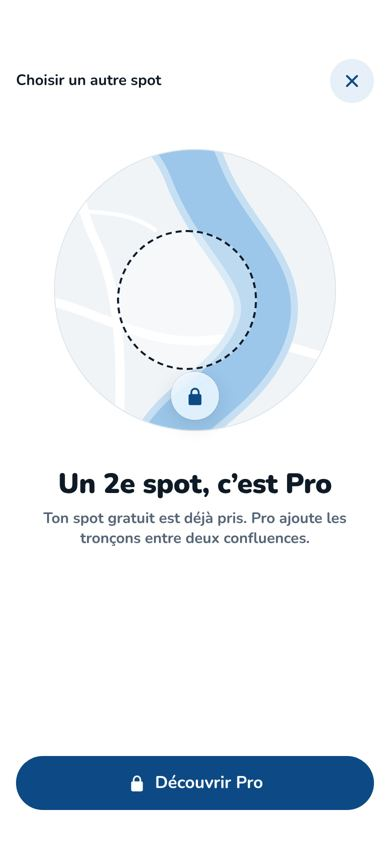
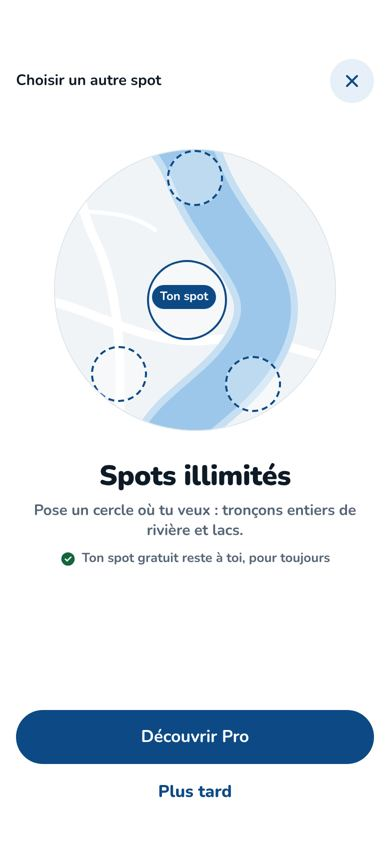
Design : P07 fiche du spot refaite, P10 C au ton MWM
Claude-Session: https://claude.ai/code/session_01SHD9N8ay5HXbeEQZKxhWVP

diff --git a/docs/design/maquettes/P07-fiche-A.dc.html b/docs/design/maquettes/P07-fiche-A.dc.html
@@ -12,26 +12,52 @@
 <link rel="stylesheet" href="https://fonts.googleapis.com/css2?family=Nunito:wght@600;700;800;900&amp;display=swap">
 <style>
 body{margin:0}
-.pt-p{width:10px;height:10px;border-radius:5px;display:inline-block;flex:none}
-.pt-p.o{background:var(--ouvert)}
-.pt-p.f{background:var(--alerte)}
-.pt-f{display:flex;flex-direction:column;align-items:center;gap:6px;min-width:0;flex:1;background:none}
-.pt-f .tuile-poisson{width:100%}
-.pt-f b{font-size:22px;line-height:1;display:flex;align-items:center;gap:6px;color:var(--encre)}
-.pt-f b small{font-size:13px;font-weight:800;color:var(--encre-douce)}
-.pt-plus{flex:1;min-width:0;display:flex;flex-direction:column;align-items:center;gap:6px;background:none}
-.pt-plus span{width:100%;border-radius:12px;box-shadow:inset 0 0 0 1.5px var(--filet);display:grid;place-items:center;color:var(--encre-douce);font-size:15px}
+.ecran .p07-t{background:var(--tuile);padding:8px 10px 9px}
+.ecran .p07-big{padding:8px 12px 8px}
+.p07-t{position:relative;display:flex;flex-direction:column;align-items:stretch;text-align:left;min-width:0;background:var(--tuile);border-radius:16px;padding:8px 9px 9px;gap:2px}
+.p07-t .rar{font-size:12px;gap:4px}.p07-t .rar svg{width:12px;height:12px}
+.p07-im{display:grid;place-items:center;height:36px}
+.p07-im img{width:100%;height:36px}
+.p07-t b{font-size:14px;font-weight:900;color:var(--encre);font-variant-numeric:tabular-nums;line-height:1.15}
+.p07-bas{display:flex;align-items:center;justify-content:space-between;gap:6px}
+.p07-bas i{font-style:normal;font-size:17px;font-weight:900;color:var(--ouvert);line-height:1.15}
+.p07-bas.f i{color:var(--alerte)}
+.p07-bas i.n{font-size:13px;color:var(--encre-douce);font-weight:800}
+.p07-pt{width:10px;height:10px;border-radius:5px;flex:none}
+.p07-pt.o{background:var(--ouvert)}.p07-pt.f{background:var(--alerte)}
+.p07-chip{display:inline-flex;align-items:center;gap:6px;height:30px;padding:0 12px 0 8px;border-radius:15px;background:var(--ouvert-doux);color:var(--ouvert);font-size:14px;font-weight:800;white-space:nowrap}
+.p07-chip svg{width:18px;height:18px}
+.p07-cond{display:grid;grid-template-columns:1fr 1fr 1fr}
+.p07-c{display:flex;align-items:center;gap:8px;min-width:0}
+.p07-c svg{color:var(--marine)}
+.p07-c b{display:block;font-size:20px;font-weight:900;line-height:1.05;font-variant-numeric:tabular-nums;color:var(--encre)}
+.p07-c span{display:block;font-size:12px;font-weight:700;color:var(--encre-douce);line-height:1.2}
+.p07-conseil{display:flex;align-items:center;gap:14px;font-size:15px;font-weight:800;color:var(--encre);white-space:nowrap}
+.p07-conseil .e{display:flex;align-items:center;gap:5px}
+.p07-conseil svg{color:var(--marine)}
+.p07-conseil img{width:44px;height:24px}
+.p07-lien{display:flex;align-items:center;gap:8px;font-size:15px;font-weight:800;color:var(--marine);width:100%;height:36px}
+.p07-lien svg{width:20px;height:20px}
+
+.p07-plus{display:inline-flex;align-items:center;height:30px;padding:0 12px;border-radius:15px;background:var(--tuile);color:var(--marine);font-size:14px;font-weight:900}
+.p07-chip.verre{background:var(--verre);color:var(--ouvert)}
 
 </style>
 </helmet>
 <div class="ecran">
-<img class="fond-carte" style="top:-240px" src="/_blob/358f1ded92a9e441995d46a2c2f81624" alt="Carte de la Marne"><div class="spot-cercle" style="left:176px;top:132px;width:172px;height:172px"></div>
-<div style="position:absolute;left:16px;right:16px;top:59px;display:flex;justify-content:space-between"><span></span><button class="rond verre" aria-label="Fermer" style="color:var(--encre)"><svg viewBox="0 0 24 24" aria-hidden="true" style="width:20px;height:20px;flex:none;"><path fill="none" stroke="currentColor" stroke-width="2.4" stroke-linecap="round" d="M6 6l12 12M18 6 6 18"/></svg></button></div>
-<div class="feuille" style="top:470px;bottom:8px;display:flex;flex-direction:column"><div class="poignee"></div>
-<div style="display:flex;justify-content:space-between;align-items:baseline"><h1 class="t-titre">Ton spot</h1><span class="t-detail">La Marne · 2,4 km</span></div>
-<div style="margin-top:20px"><div style="display:flex;gap:8px;align-items:flex-start"><button class="pt-f" aria-label="Brochet, taille minimale 60 cm, ouvert"><div class="tuile-poisson" style="height:68px"><img class="poisson" src="/_blob/325cfac7b539aef705c1b3f944fa8bcf" alt="" style="width:88%;height:48px"></div><b>60<span class="pt-p o"></span></b></button><button class="pt-f" aria-label="Sandre, taille minimale 50 cm, ouvert"><div class="tuile-poisson" style="height:68px"><img class="poisson" src="/_blob/64752134d1301c8ae5245b9230566c2d" alt="" style="width:88%;height:48px"></div><b>50<span class="pt-p o"></span></b></button><button class="pt-f" aria-label="Black-bass, taille minimale 40 cm, ouvert"><div class="tuile-poisson" style="height:68px"><img class="poisson" src="/_blob/822cd2aa2361109755135f4ca4af8f47" alt="" style="width:88%;height:48px"></div><b>40<span class="pt-p o"></span></b></button><button class="pt-f" aria-label="Truite fario, taille minimale 23 cm, fermé"><div class="tuile-poisson" style="height:68px"><img class="poisson" src="/_blob/9c9a3e6836050e27289055b62c3d60d5" alt="" style="width:88%;height:48px"></div><b>23<span class="pt-p f"></span></b></button><button class="pt-plus" aria-label="7 autres espèces"><span style="height:68px">+7</span></button></div></div>
-<div class="t-detail" style="margin-top:16px;color:var(--encre-douce)">3 carnassiers par jour</div>
-<div style="margin-top:auto"><button class="btn pri"><svg viewBox="0 0 24 24" aria-hidden="true" style="width:20px;height:20px;flex:none;"><path fill="currentColor" d="M7 4.5v15a1 1 0 0 0 1.5.86l12.5-7.5a1 1 0 0 0 0-1.72L8.5 3.64A1 1 0 0 0 7 4.5Z"/></svg>Commencer une session</button></div></div>
+<img class="fond-carte" style="top:-338px" src="/_blob/358f1ded92a9e441995d46a2c2f81624" alt="Carte de la Marne"><div class="spot-cercle" style="left:176px;top:20px;width:172px;height:172px"></div><span class="station" style="left:232px;top:98px"></span>
+<div style="position:absolute;left:16px;right:16px;top:59px;display:flex;justify-content:space-between;align-items:center"><span class="p07-chip verre"><svg viewBox="0 0 24 24" aria-hidden="true" style="width:18px;height:18px;flex:none;"><path fill="currentColor" d="M12 2a10 10 0 1 0 0 20 10 10 0 0 0 0-20Zm-1.3 14.2-4-4 1.4-1.4 2.6 2.6 5.6-5.6 1.4 1.4Z"/></svg>Ouvert aujourd'hui</span><button class="rond verre" aria-label="Fermer" style="color:var(--encre)"><svg viewBox="0 0 24 24" aria-hidden="true" style="width:20px;height:20px;flex:none;"><path fill="none" stroke="currentColor" stroke-width="2.4" stroke-linecap="round" d="M6 6l12 12M18 6 6 18"/></svg></button></div>
+<div class="feuille" style="top:176px;bottom:8px;display:flex;flex-direction:column;padding-bottom:16px"><div class="poignee"></div>
+<div class="t-legende" style="white-space:nowrap">Ton spot · La Marne à Saint-Maur · 2,4 km</div>
+<h1 style="font-size:22px;font-weight:900;line-height:1.1;margin-top:3px">Ce que tu peux pêcher ici aujourd'hui</h1>
+<div style="display:flex;justify-content:space-between;align-items:center;margin-top:10px"><span class="t-legende">29 pêches OFB · dernier relevé 2024</span><span class="p07-plus" style="height:26px;font-size:13px">+5 espèces</span></div>
+<div style="display:grid;grid-template-columns:repeat(3,1fr);gap:8px;margin-top:8px"><button class="p07-t " aria-label="Brochet, peu commun, 10 pêches sur 29, taille minimale 60 cm, ouvert"><span class="rar pc"><svg viewBox="0 0 16 16" fill="currentColor" aria-hidden="true"><path d="M8 1.5 13.6 4.75v6.5L8 14.5 2.4 11.25v-6.5Z"/></svg><span>Peu commun</span></span><span class="p07-im"><img class="poisson" src="/_blob/325cfac7b539aef705c1b3f944fa8bcf" alt=""></span><b>10 sur 29</b><span class="p07-bas"><i class="">60 cm</i><span class="p07-pt o"></span></span></button><button class="p07-t " aria-label="Sandre, rare, 3 pêches sur 29, taille minimale 50 cm, ouvert"><span class="rar r"><svg viewBox="0 0 16 16" fill="currentColor" aria-hidden="true"><path d="M8 1 15 8 8 15 1 8Z"/></svg><span>Rare</span></span><span class="p07-im"><img class="poisson" src="/_blob/64752134d1301c8ae5245b9230566c2d" alt=""></span><b>3 sur 29</b><span class="p07-bas"><i class="">50 cm</i><span class="p07-pt o"></span></span></button><button class="p07-t " aria-label="Perche, commun, 24 pêches sur 29, ouvert"><span class="rar c"><svg viewBox="0 0 16 16" fill="currentColor" aria-hidden="true"><circle cx="8" cy="8" r="6"/></svg><span>Commun</span></span><span class="p07-im"><img class="poisson" src="/_blob/0af5e5e6f274e011d4317ff12600a103" alt=""></span><b>24 sur 29</b><span class="p07-bas"><i class="n">Sans taille</i><span class="p07-pt o"></span></span></button><button class="p07-t " aria-label="Gardon, commun, 16 pêches sur 29, ouvert"><span class="rar c"><svg viewBox="0 0 16 16" fill="currentColor" aria-hidden="true"><circle cx="8" cy="8" r="6"/></svg><span>Commun</span></span><span class="p07-im"><img class="poisson" src="/_blob/4799d66fb5fc82ab53e0051d38867b2d" alt=""></span><b>16 sur 29</b><span class="p07-bas"><i class="n">Sans taille</i><span class="p07-pt o"></span></span></button><button class="p07-t " aria-label="Black-bass, rare, 2 pêches sur 29, taille minimale 40 cm, ouvert"><span class="rar r"><svg viewBox="0 0 16 16" fill="currentColor" aria-hidden="true"><path d="M8 1 15 8 8 15 1 8Z"/></svg><span>Rare</span></span><span class="p07-im"><img class="poisson" src="/_blob/822cd2aa2361109755135f4ca4af8f47" alt=""></span><b>2 sur 29</b><span class="p07-bas"><i class="">40 cm</i><span class="p07-pt o"></span></span></button><button class="p07-t " aria-label="Truite fario, légendaire, 0 pêches sur 29, fermé"><span class="rar l"><svg viewBox="0 0 16 16" fill="currentColor" aria-hidden="true"><path d="m8 1 2.1 4.4 4.9.6-3.6 3.4.9 4.8L8 11.9l-4.3 2.3.9-4.8L1 6l4.9-.6Z"/></svg><span>Légendaire</span></span><span class="p07-im"><img class="poisson" src="/_blob/9c9a3e6836050e27289055b62c3d60d5" alt=""></span><b>0 sur 29</b><span class="p07-bas f"><i>Fermé</i><span class="p07-pt f"></span></span></button></div>
+<div class="p07-cond" style="margin-top:14px"><div class="p07-c"><svg viewBox="0 0 24 24" aria-hidden="true" style="width:22px;height:22px;flex:none;"><path fill="none" stroke="currentColor" stroke-width="2" stroke-linecap="round" stroke-linejoin="round" d="M12 3s6 6.5 6 11a6 6 0 0 1-12 0c0-4.5 6-11 6-11Z"/></svg><div><b>14 °C</b><span>Eau</span></div></div><div class="p07-c"><svg viewBox="0 0 24 24" aria-hidden="true" style="width:22px;height:22px;flex:none;"><path fill="none" stroke="currentColor" stroke-width="2" stroke-linecap="round" d="M2 9c2.5-2 5-2 7.5 0s5 2 7.5 0 3.5-1.5 5 0M2 15c2.5-2 5-2 7.5 0s5 2 7.5 0 3.5-1.5 5 0"/></svg><div><b>1,42 m</b><span>Marne · stable</span></div></div><div class="p07-c"><svg viewBox="0 0 24 24" aria-hidden="true" style="width:22px;height:22px;flex:none;"><path fill="none" stroke="currentColor" stroke-width="2" stroke-linejoin="round" d="M7 18h10.5a4 4 0 0 0 .4-8A6 6 0 0 0 6.3 11 3.5 3.5 0 0 0 7 18Z"/></svg><div><b>16°</b><span>Nuageux</span><span style="font-size:11px">Apple Météo</span></div></div></div>
+<div style="height:.5px;background:var(--filet);margin-top:12px"></div>
+<div style="margin-top:10px"><div class="t-legende" style="margin-bottom:5px">À essayer aujourd&#39;hui</div><div class="p07-conseil"><span class="e"><img class="poisson" src="/_blob/325cfac7b539aef705c1b3f944fa8bcf" alt="Brochet"></span><span class="e"><svg viewBox="0 0 24 24" aria-hidden="true" style="width:20px;height:20px;flex:none;"><g fill="none" stroke="currentColor" stroke-width="2" stroke-linecap="round" stroke-linejoin="round"><path d="M3 12c3-5 9-5 13 0-4 5-10 5-13 0Z"/><path d="M16 12l5-3.5v7Z"/><circle cx="7.5" cy="11" r=".6" fill="currentColor"/></g></svg>Leurre souple</span><span class="e"><svg viewBox="0 0 24 24" aria-hidden="true" style="width:18px;height:18px;flex:none;"><g fill="none" stroke="currentColor" stroke-width="2" stroke-linecap="round"><circle cx="12" cy="12" r="9"/><path d="M12 7v5l3 2"/></g></svg>17 h à 19 h</span></div></div>
+<div style="height:.5px;background:var(--filet);margin-top:8px"></div>
+<button class="p07-lien" style="margin-top:2px"><svg viewBox="0 0 24 24" aria-hidden="true" style="width:20px;height:20px;flex:none;"><g fill="none" stroke="currentColor" stroke-width="2" stroke-linecap="round" stroke-linejoin="round"><path d="M6 3h8l4 4v14H6Z"/><path d="M14 3v4h4M9 12h6M9 16h6"/></g></svg><span style="white-space:nowrap">Règles et sources</span><span class="t-legende" style="margin-left:auto;white-space:nowrap">3 carnassiers par jour</span><svg class="chevron" style="margin-left:2px" viewBox="0 0 8 14" aria-hidden="true"><path fill="none" stroke="currentColor" stroke-width="2" stroke-linecap="round" stroke-linejoin="round" d="m1.5 1.5 5 5.5-5 5.5"/></svg></button>
+<div style="margin-top:auto"><button class="btn pri"><svg viewBox="0 0 24 24" aria-hidden="true" style="width:20px;height:20px;flex:none;"><path fill="currentColor" d="M7 4.5v15a1 1 0 0 0 1.5.86l12.5-7.5a1 1 0 0 0 0-1.72L8.5 3.64A1 1 0 0 0 7 4.5Z"/></svg>Commencer une session</button><button class="lien" style="height:40px">Choisir un autre spot</button></div></div>
 </div>
 </x-dc>
 <script type="text/x-dc" data-dc-script data-props='{"$preview":{"width":390,"height":844}}'>

diff --git a/docs/design/maquettes/P07-fiche-C.dc.html b/docs/design/maquettes/P07-fiche-C.dc.html
@@ -12,23 +12,53 @@
 <link rel="stylesheet" href="https://fonts.googleapis.com/css2?family=Nunito:wght@600;700;800;900&amp;display=swap">
 <style>
 body{margin:0}
-.pt-p{width:10px;height:10px;border-radius:5px;display:inline-block;flex:none}
-.pt-p.o{background:var(--ouvert)}
-.pt-p.f{background:var(--alerte)}
-.pt-f{display:flex;flex-direction:column;align-items:center;gap:6px;min-width:0;flex:1;background:none}
-.pt-f .tuile-poisson{width:100%}
-.pt-f b{font-size:22px;line-height:1;display:flex;align-items:center;gap:6px;color:var(--encre)}
-.pt-f b small{font-size:13px;font-weight:800;color:var(--encre-douce)}
-.pt-plus{flex:1;min-width:0;display:flex;flex-direction:column;align-items:center;gap:6px;background:none}
-.pt-plus span{width:100%;border-radius:12px;box-shadow:inset 0 0 0 1.5px var(--filet);display:grid;place-items:center;color:var(--encre-douce);font-size:15px}
+.ecran .p07-t{background:var(--tuile);padding:8px 10px 9px}
+.ecran .p07-big{padding:8px 12px 8px}
+.p07-t{position:relative;display:flex;flex-direction:column;align-items:stretch;text-align:left;min-width:0;background:var(--tuile);border-radius:16px;padding:8px 9px 9px;gap:2px}
+.p07-t .rar{font-size:12px;gap:4px}.p07-t .rar svg{width:12px;height:12px}
+.p07-im{display:grid;place-items:center;height:36px}
+.p07-im img{width:100%;height:36px}
+.p07-t b{font-size:14px;font-weight:900;color:var(--encre);font-variant-numeric:tabular-nums;line-height:1.15}
+.p07-bas{display:flex;align-items:center;justify-content:space-between;gap:6px}
+.p07-bas i{font-style:normal;font-size:17px;font-weight:900;color:var(--ouvert);line-height:1.15}
+.p07-bas.f i{color:var(--alerte)}
+.p07-bas i.n{font-size:13px;color:var(--encre-douce);font-weight:800}
+.p07-pt{width:10px;height:10px;border-radius:5px;flex:none}
+.p07-pt.o{background:var(--ouvert)}.p07-pt.f{background:var(--alerte)}
+.p07-chip{display:inline-flex;align-items:center;gap:6px;height:30px;padding:0 12px 0 8px;border-radius:15px;background:var(--ouvert-doux);color:var(--ouvert);font-size:14px;font-weight:800;white-space:nowrap}
+.p07-chip svg{width:18px;height:18px}
+.p07-cond{display:grid;grid-template-columns:1fr 1fr 1fr}
+.p07-c{display:flex;align-items:center;gap:8px;min-width:0}
+.p07-c svg{color:var(--marine)}
+.p07-c b{display:block;font-size:20px;font-weight:900;line-height:1.05;font-variant-numeric:tabular-nums;color:var(--encre)}
+.p07-c span{display:block;font-size:12px;font-weight:700;color:var(--encre-douce);line-height:1.2}
+.p07-conseil{display:flex;align-items:center;gap:14px;font-size:15px;font-weight:800;color:var(--encre);white-space:nowrap}
+.p07-conseil .e{display:flex;align-items:center;gap:5px}
+.p07-conseil svg{color:var(--marine)}
+.p07-conseil img{width:44px;height:24px}
+.p07-lien{display:flex;align-items:center;gap:8px;font-size:15px;font-weight:800;color:var(--marine);width:100%;height:36px}
+.p07-lien svg{width:20px;height:20px}
+
+.p07-plus{display:inline-flex;align-items:center;height:30px;padding:0 12px;border-radius:15px;background:var(--tuile);color:var(--marine);font-size:14px;font-weight:900}
+.p07-big{gap:2px;border-radius:20px}
+.p07-big .rar{font-size:13px}.p07-big .rar svg{width:14px;height:14px}
+.p07-big .p07-im{height:30px}.p07-big .p07-im img{height:30px;width:92%}
+.p07-big b{font-size:14px;color:var(--encre-douce)}
+.p07-big .p07-bas i{font-size:19px}.p07-big .p07-bas i.n{font-size:14px}
 
 </style>
 </helmet>
 <div class="ecran blanc">
-<div class="haut" style="display:flex;justify-content:space-between;align-items:center"><span class="t-detail" style="display:flex;gap:6px;align-items:center;color:var(--encre)"><svg viewBox="0 0 24 24" aria-hidden="true" style="width:16px;height:16px;flex:none;color:var(--marine)"><path fill="currentColor" d="M12 2a7 7 0 0 0-7 7c0 5 7 13 7 13s7-8 7-13a7 7 0 0 0-7-7Zm0 9.5A2.5 2.5 0 1 1 12 6.5a2.5 2.5 0 0 1 0 5Z"/></svg>Ton spot · Saint-Maur</span><button class="rond" aria-label="Fermer" style="background:var(--tuile);color:var(--marine)"><svg viewBox="0 0 24 24" aria-hidden="true" style="width:20px;height:20px;flex:none;"><path fill="none" stroke="currentColor" stroke-width="2.4" stroke-linecap="round" d="M6 6l12 12M18 6 6 18"/></svg></button></div>
-<div style="position:absolute;left:16px;right:16px;top:230px"><div style="display:flex;gap:6px;align-items:flex-start"><button class="pt-f" aria-label="Brochet, taille minimale 60 cm, ouvert"><div class="tuile-poisson" style="height:76px"><img class="poisson" src="/_blob/325cfac7b539aef705c1b3f944fa8bcf" alt="" style="width:88%;height:54px"></div><b>60<span class="pt-p o"></span></b></button><button class="pt-f" aria-label="Sandre, taille minimale 50 cm, ouvert"><div class="tuile-poisson" style="height:76px"><img class="poisson" src="/_blob/64752134d1301c8ae5245b9230566c2d" alt="" style="width:88%;height:54px"></div><b>50<span class="pt-p o"></span></b></button><button class="pt-f" aria-label="Black-bass, taille minimale 40 cm, ouvert"><div class="tuile-poisson" style="height:76px"><img class="poisson" src="/_blob/822cd2aa2361109755135f4ca4af8f47" alt="" style="width:88%;height:54px"></div><b>40<span class="pt-p o"></span></b></button><button class="pt-f" aria-label="Truite fario, taille minimale 23 cm, fermé"><div class="tuile-poisson" style="height:76px"><img class="poisson" src="/_blob/9c9a3e6836050e27289055b62c3d60d5" alt="" style="width:88%;height:54px"></div><b>23<span class="pt-p f"></span></b></button><button class="pt-plus" aria-label="7 autres espèces"><span style="height:76px">+7</span></button></div></div>
-<div style="position:absolute;left:32px;right:32px;top:420px;text-align:center" class="t-detail">3 carnassiers par jour</div>
-<div style="position:absolute;left:16px;right:16px;bottom:34px"><button class="btn pri"><svg viewBox="0 0 24 24" aria-hidden="true" style="width:20px;height:20px;flex:none;"><path fill="currentColor" d="M7 4.5v15a1 1 0 0 0 1.5.86l12.5-7.5a1 1 0 0 0 0-1.72L8.5 3.64A1 1 0 0 0 7 4.5Z"/></svg>Commencer une session</button></div>
+<div style="position:absolute;left:16px;right:16px;top:59px;display:flex;justify-content:space-between;align-items:center;height:28px"><span class="t-detail" style="display:flex;gap:6px;align-items:center;color:var(--encre);white-space:nowrap"><svg style="width:16px;height:16px;color:var(--marine)" viewBox="0 0 24 24" aria-hidden="true"><path fill="currentColor" d="M12 2a7 7 0 0 0-7 7c0 5 7 13 7 13s7-8 7-13a7 7 0 0 0-7-7Zm0 9.5A2.5 2.5 0 1 1 12 6.5a2.5 2.5 0 0 1 0 5Z"/></svg>Ton spot · La Marne à Saint-Maur</span><span class="t-detail">2,4 km</span></div>
+<div style="position:absolute;left:16px;right:16px;top:94px"><h1 style="font-size:28px;font-weight:900;line-height:1.05;letter-spacing:-.01em">Ce que tu peux pêcher ici aujourd'hui</h1>
+<div style="margin-top:8px"><span class="p07-chip"><svg viewBox="0 0 24 24" aria-hidden="true" style="width:18px;height:18px;flex:none;"><path fill="currentColor" d="M12 2a10 10 0 1 0 0 20 10 10 0 0 0 0-20Zm-1.3 14.2-4-4 1.4-1.4 2.6 2.6 5.6-5.6 1.4 1.4Z"/></svg>Ouvert aujourd'hui</span></div>
+<div style="display:grid;grid-template-columns:1fr 1fr;gap:6px;margin-top:10px"><button class="p07-t p07-big" aria-label="Brochet, peu commun, 10 pêches sur 29, taille minimale 60 cm, ouvert"><span class="rar pc"><svg viewBox="0 0 16 16" fill="currentColor" aria-hidden="true"><path d="M8 1.5 13.6 4.75v6.5L8 14.5 2.4 11.25v-6.5Z"/></svg><span>Peu commun</span></span><span class="p07-im"><img class="poisson" src="/_blob/325cfac7b539aef705c1b3f944fa8bcf" alt=""></span><b>10 sur 29</b><span class="p07-bas"><i class="">60 cm</i><span class="p07-pt o"></span></span></button><button class="p07-t p07-big" aria-label="Sandre, rare, 3 pêches sur 29, taille minimale 50 cm, ouvert"><span class="rar r"><svg viewBox="0 0 16 16" fill="currentColor" aria-hidden="true"><path d="M8 1 15 8 8 15 1 8Z"/></svg><span>Rare</span></span><span class="p07-im"><img class="poisson" src="/_blob/64752134d1301c8ae5245b9230566c2d" alt=""></span><b>3 sur 29</b><span class="p07-bas"><i class="">50 cm</i><span class="p07-pt o"></span></span></button><button class="p07-t p07-big" aria-label="Perche, commun, 24 pêches sur 29, ouvert"><span class="rar c"><svg viewBox="0 0 16 16" fill="currentColor" aria-hidden="true"><circle cx="8" cy="8" r="6"/></svg><span>Commun</span></span><span class="p07-im"><img class="poisson" src="/_blob/0af5e5e6f274e011d4317ff12600a103" alt=""></span><b>24 sur 29</b><span class="p07-bas"><i class="n">Sans taille</i><span class="p07-pt o"></span></span></button><button class="p07-t p07-big" aria-label="Gardon, commun, 16 pêches sur 29, ouvert"><span class="rar c"><svg viewBox="0 0 16 16" fill="currentColor" aria-hidden="true"><circle cx="8" cy="8" r="6"/></svg><span>Commun</span></span><span class="p07-im"><img class="poisson" src="/_blob/4799d66fb5fc82ab53e0051d38867b2d" alt=""></span><b>16 sur 29</b><span class="p07-bas"><i class="n">Sans taille</i><span class="p07-pt o"></span></span></button><button class="p07-t p07-big" aria-label="Black-bass, rare, 2 pêches sur 29, taille minimale 40 cm, ouvert"><span class="rar r"><svg viewBox="0 0 16 16" fill="currentColor" aria-hidden="true"><path d="M8 1 15 8 8 15 1 8Z"/></svg><span>Rare</span></span><span class="p07-im"><img class="poisson" src="/_blob/822cd2aa2361109755135f4ca4af8f47" alt=""></span><b>2 sur 29</b><span class="p07-bas"><i class="">40 cm</i><span class="p07-pt o"></span></span></button><button class="p07-t p07-big" aria-label="Truite fario, légendaire, 0 pêches sur 29, fermé"><span class="rar l"><svg viewBox="0 0 16 16" fill="currentColor" aria-hidden="true"><path d="m8 1 2.1 4.4 4.9.6-3.6 3.4.9 4.8L8 11.9l-4.3 2.3.9-4.8L1 6l4.9-.6Z"/></svg><span>Légendaire</span></span><span class="p07-im"><img class="poisson" src="/_blob/9c9a3e6836050e27289055b62c3d60d5" alt=""></span><b>0 sur 29</b><span class="p07-bas f"><i>Fermé</i><span class="p07-pt f"></span></span></button></div>
+<div style="display:flex;justify-content:space-between;align-items:center;margin-top:8px"><span class="t-legende">29 pêches OFB · dernier relevé 2024</span><span class="p07-plus" style="height:24px;font-size:13px;background:none;padding:0">+5 espèces ›</span></div>
+<div class="p07-cond" style="margin-top:8px"><div class="p07-c"><svg viewBox="0 0 24 24" aria-hidden="true" style="width:22px;height:22px;flex:none;"><path fill="none" stroke="currentColor" stroke-width="2" stroke-linecap="round" stroke-linejoin="round" d="M12 3s6 6.5 6 11a6 6 0 0 1-12 0c0-4.5 6-11 6-11Z"/></svg><div><b>14 °C</b><span>Eau</span></div></div><div class="p07-c"><svg viewBox="0 0 24 24" aria-hidden="true" style="width:22px;height:22px;flex:none;"><path fill="none" stroke="currentColor" stroke-width="2" stroke-linecap="round" d="M2 9c2.5-2 5-2 7.5 0s5 2 7.5 0 3.5-1.5 5 0M2 15c2.5-2 5-2 7.5 0s5 2 7.5 0 3.5-1.5 5 0"/></svg><div><b>1,42 m</b><span>Marne · stable</span></div></div><div class="p07-c"><svg viewBox="0 0 24 24" aria-hidden="true" style="width:22px;height:22px;flex:none;"><path fill="none" stroke="currentColor" stroke-width="2" stroke-linejoin="round" d="M7 18h10.5a4 4 0 0 0 .4-8A6 6 0 0 0 6.3 11 3.5 3.5 0 0 0 7 18Z"/></svg><div><b>16°</b><span>Nuageux</span><span style="font-size:11px">Apple Météo</span></div></div></div>
+<div style="margin-top:8px"><div class="t-legende" style="margin-bottom:5px">À essayer aujourd&#39;hui</div><div class="p07-conseil"><span class="e"><img class="poisson" src="/_blob/325cfac7b539aef705c1b3f944fa8bcf" alt="Brochet"></span><span class="e"><svg viewBox="0 0 24 24" aria-hidden="true" style="width:20px;height:20px;flex:none;"><g fill="none" stroke="currentColor" stroke-width="2" stroke-linecap="round" stroke-linejoin="round"><path d="M3 12c3-5 9-5 13 0-4 5-10 5-13 0Z"/><path d="M16 12l5-3.5v7Z"/><circle cx="7.5" cy="11" r=".6" fill="currentColor"/></g></svg>Leurre souple</span><span class="e"><svg viewBox="0 0 24 24" aria-hidden="true" style="width:18px;height:18px;flex:none;"><g fill="none" stroke="currentColor" stroke-width="2" stroke-linecap="round"><circle cx="12" cy="12" r="9"/><path d="M12 7v5l3 2"/></g></svg>17 h à 19 h</span></div></div>
+<button class="p07-lien" style="margin-top:2px"><svg viewBox="0 0 24 24" aria-hidden="true" style="width:20px;height:20px;flex:none;"><g fill="none" stroke="currentColor" stroke-width="2" stroke-linecap="round" stroke-linejoin="round"><path d="M6 3h8l4 4v14H6Z"/><path d="M14 3v4h4M9 12h6M9 16h6"/></g></svg><span style="white-space:nowrap">Règles et sources</span><span class="t-legende" style="margin-left:auto;white-space:nowrap">3 carnassiers par jour</span><svg class="chevron" style="margin-left:2px" viewBox="0 0 8 14" aria-hidden="true"><path fill="none" stroke="currentColor" stroke-width="2" stroke-linecap="round" stroke-linejoin="round" d="m1.5 1.5 5 5.5-5 5.5"/></svg></button>
+</div>
+<div style="position:absolute;left:16px;right:16px;bottom:24px"><button class="btn pri"><svg viewBox="0 0 24 24" aria-hidden="true" style="width:20px;height:20px;flex:none;"><path fill="currentColor" d="M7 4.5v15a1 1 0 0 0 1.5.86l12.5-7.5a1 1 0 0 0 0-1.72L8.5 3.64A1 1 0 0 0 7 4.5Z"/></svg>Commencer une session</button><button class="lien" style="height:40px">Choisir un autre spot</button></div>
 </div>
 </x-dc>
 <script type="text/x-dc" data-dc-script data-props='{"$preview":{"width":390,"height":844}}'>

diff --git a/docs/design/maquettes/P07-fiche-B.dc.html b/docs/design/maquettes/P07-fiche-B.dc.html
@@ -12,25 +12,47 @@
 <link rel="stylesheet" href="https://fonts.googleapis.com/css2?family=Nunito:wght@600;700;800;900&amp;display=swap">
 <style>
 body{margin:0}
-.pt-p{width:10px;height:10px;border-radius:5px;display:inline-block;flex:none}
-.pt-p.o{background:var(--ouvert)}
-.pt-p.f{background:var(--alerte)}
-.pt-f{display:flex;flex-direction:column;align-items:center;gap:6px;min-width:0;flex:1;background:none}
-.pt-f .tuile-poisson{width:100%}
-.pt-f b{font-size:22px;line-height:1;display:flex;align-items:center;gap:6px;color:var(--encre)}
-.pt-f b small{font-size:13px;font-weight:800;color:var(--encre-douce)}
-.pt-plus{flex:1;min-width:0;display:flex;flex-direction:column;align-items:center;gap:6px;background:none}
-.pt-plus span{width:100%;border-radius:12px;box-shadow:inset 0 0 0 1.5px var(--filet);display:grid;place-items:center;color:var(--encre-douce);font-size:15px}
+.ecran .p07-t{background:var(--tuile);padding:8px 10px 9px}
+.ecran .p07-big{padding:8px 12px 8px}
+.p07-t{position:relative;display:flex;flex-direction:column;align-items:stretch;text-align:left;min-width:0;background:var(--tuile);border-radius:16px;padding:8px 9px 9px;gap:2px}
+.p07-t .rar{font-size:12px;gap:4px}.p07-t .rar svg{width:12px;height:12px}
+.p07-im{display:grid;place-items:center;height:36px}
+.p07-im img{width:100%;height:36px}
+.p07-t b{font-size:14px;font-weight:900;color:var(--encre);font-variant-numeric:tabular-nums;line-height:1.15}
+.p07-bas{display:flex;align-items:center;justify-content:space-between;gap:6px}
+.p07-bas i{font-style:normal;font-size:17px;font-weight:900;color:var(--ouvert);line-height:1.15}
+.p07-bas.f i{color:var(--alerte)}
+.p07-bas i.n{font-size:13px;color:var(--encre-douce);font-weight:800}
+.p07-pt{width:10px;height:10px;border-radius:5px;flex:none}
+.p07-pt.o{background:var(--ouvert)}.p07-pt.f{background:var(--alerte)}
+.p07-chip{display:inline-flex;align-items:center;gap:6px;height:30px;padding:0 12px 0 8px;border-radius:15px;background:var(--ouvert-doux);color:var(--ouvert);font-size:14px;font-weight:800;white-space:nowrap}
+.p07-chip svg{width:18px;height:18px}
+.p07-cond{display:grid;grid-template-columns:1fr 1fr 1fr}
+.p07-c{display:flex;align-items:center;gap:8px;min-width:0}
+.p07-c svg{color:var(--marine)}
+.p07-c b{display:block;font-size:20px;font-weight:900;line-height:1.05;font-variant-numeric:tabular-nums;color:var(--encre)}
+.p07-c span{display:block;font-size:12px;font-weight:700;color:var(--encre-douce);line-height:1.2}
+.p07-conseil{display:flex;align-items:center;gap:14px;font-size:15px;font-weight:800;color:var(--encre);white-space:nowrap}
+.p07-conseil .e{display:flex;align-items:center;gap:5px}
+.p07-conseil svg{color:var(--marine)}
+.p07-conseil img{width:44px;height:24px}
+.p07-lien{display:flex;align-items:center;gap:8px;font-size:15px;font-weight:800;color:var(--marine);width:100%;height:36px}
+.p07-lien svg{width:20px;height:20px}
+
+.p07-plus{display:inline-flex;align-items:center;height:30px;padding:0 12px;border-radius:15px;background:var(--tuile);color:var(--marine);font-size:14px;font-weight:900}
 
 </style>
 </helmet>
 <div class="ecran">
-<div class="haut" style="display:flex;justify-content:space-between;align-items:center"><span></span><button class="rond" aria-label="Fermer" style="background:var(--surface);color:var(--marine)"><svg viewBox="0 0 24 24" aria-hidden="true" style="width:20px;height:20px;flex:none;"><path fill="none" stroke="currentColor" stroke-width="2.4" stroke-linecap="round" d="M6 6l12 12M18 6 6 18"/></svg></button></div>
-<div class="zone" style="margin-top:8px"><h1 class="t-grand">Ton spot</h1><div class="t-detail" style="margin-top:4px">La Marne · Saint-Maur · 2,4 km</div>
-<div class="groupe" style="margin-top:24px"><div class="ligne" style="display:block;padding:16px"><div style="display:flex;gap:8px;align-items:flex-start"><button class="pt-f" aria-label="Brochet, taille minimale 60 cm, ouvert"><div class="tuile-poisson" style="height:64px"><img class="poisson" src="/_blob/325cfac7b539aef705c1b3f944fa8bcf" alt="" style="width:88%;height:46px"></div><b>60<span class="pt-p o"></span></b></button><button class="pt-f" aria-label="Sandre, taille minimale 50 cm, ouvert"><div class="tuile-poisson" style="height:64px"><img class="poisson" src="/_blob/64752134d1301c8ae5245b9230566c2d" alt="" style="width:88%;height:46px"></div><b>50<span class="pt-p o"></span></b></button><button class="pt-f" aria-label="Black-bass, taille minimale 40 cm, ouvert"><div class="tuile-poisson" style="height:64px"><img class="poisson" src="/_blob/822cd2aa2361109755135f4ca4af8f47" alt="" style="width:88%;height:46px"></div><b>40<span class="pt-p o"></span></b></button><button class="pt-f" aria-label="Truite fario, taille minimale 23 cm, fermé"><div class="tuile-poisson" style="height:64px"><img class="poisson" src="/_blob/9c9a3e6836050e27289055b62c3d60d5" alt="" style="width:88%;height:46px"></div><b>23<span class="pt-p f"></span></b></button><button class="pt-plus" aria-label="7 autres espèces"><span style="height:64px">+7</span></button></div></div>
-<div class="ligne"><div class="texte">Par jour</div><span class="valeur" style="color:var(--encre)">3 carnassiers</span></div>
-<div class="ligne"><div class="texte">Aujourd’hui</div><span class="valeur">14° · Marne stable</span></div></div></div>
-<div style="position:absolute;left:16px;right:16px;bottom:34px"><button class="btn pri"><svg viewBox="0 0 24 24" aria-hidden="true" style="width:20px;height:20px;flex:none;"><path fill="currentColor" d="M7 4.5v15a1 1 0 0 0 1.5.86l12.5-7.5a1 1 0 0 0 0-1.72L8.5 3.64A1 1 0 0 0 7 4.5Z"/></svg>Commencer une session</button></div>
+<div style="position:absolute;left:16px;right:16px;top:59px;display:flex;justify-content:space-between;align-items:center"><button class="rond" aria-label="Retour" style="background:var(--surface);color:var(--marine)"><svg viewBox="0 0 24 24" aria-hidden="true" style="width:20px;height:20px;flex:none;"><path fill="none" stroke="currentColor" stroke-width="2.4" stroke-linecap="round" stroke-linejoin="round" d="M15 5l-7 7 7 7"/></svg></button><span class="p07-chip"><svg viewBox="0 0 24 24" aria-hidden="true" style="width:18px;height:18px;flex:none;"><path fill="currentColor" d="M12 2a10 10 0 1 0 0 20 10 10 0 0 0 0-20Zm-1.3 14.2-4-4 1.4-1.4 2.6 2.6 5.6-5.6 1.4 1.4Z"/></svg>Ouvert aujourd'hui</span></div>
+<div style="position:absolute;left:16px;right:16px;top:112px"><h1 style="font-size:29px;font-weight:900;line-height:1.05;letter-spacing:-.01em">Ce que tu peux pêcher ici aujourd'hui</h1><div class="t-detail" style="margin-top:6px;white-space:nowrap">Ton spot · La Marne à Saint-Maur · 2,4 km</div></div>
+<div style="position:absolute;left:16px;right:16px;top:206px">
+<div style="display:flex;justify-content:space-between;align-items:center;padding:0 4px 6px"><span class="t-legende">29 pêches OFB · dernier relevé 2024</span><span class="p07-plus" style="height:26px;font-size:13px;background:none;padding:0">+5 espèces ›</span></div>
+<div class="groupe" style="padding:8px"><div style="display:grid;grid-template-columns:repeat(3,1fr);gap:8px"><button class="p07-t " aria-label="Brochet, peu commun, 10 pêches sur 29, taille minimale 60 cm, ouvert"><span class="rar pc"><svg viewBox="0 0 16 16" fill="currentColor" aria-hidden="true"><path d="M8 1.5 13.6 4.75v6.5L8 14.5 2.4 11.25v-6.5Z"/></svg><span>Peu commun</span></span><span class="p07-im"><img class="poisson" src="/_blob/325cfac7b539aef705c1b3f944fa8bcf" alt=""></span><b>10 sur 29</b><span class="p07-bas"><i class="">60 cm</i><span class="p07-pt o"></span></span></button><button class="p07-t " aria-label="Sandre, rare, 3 pêches sur 29, taille minimale 50 cm, ouvert"><span class="rar r"><svg viewBox="0 0 16 16" fill="currentColor" aria-hidden="true"><path d="M8 1 15 8 8 15 1 8Z"/></svg><span>Rare</span></span><span class="p07-im"><img class="poisson" src="/_blob/64752134d1301c8ae5245b9230566c2d" alt=""></span><b>3 sur 29</b><span class="p07-bas"><i class="">50 cm</i><span class="p07-pt o"></span></span></button><button class="p07-t " aria-label="Perche, commun, 24 pêches sur 29, ouvert"><span class="rar c"><svg viewBox="0 0 16 16" fill="currentColor" aria-hidden="true"><circle cx="8" cy="8" r="6"/></svg><span>Commun</span></span><span class="p07-im"><img class="poisson" src="/_blob/0af5e5e6f274e011d4317ff12600a103" alt=""></span><b>24 sur 29</b><span class="p07-bas"><i class="n">Sans taille</i><span class="p07-pt o"></span></span></button><button class="p07-t " aria-label="Gardon, commun, 16 pêches sur 29, ouvert"><span class="rar c"><svg viewBox="0 0 16 16" fill="currentColor" aria-hidden="true"><circle cx="8" cy="8" r="6"/></svg><span>Commun</span></span><span class="p07-im"><img class="poisson" src="/_blob/4799d66fb5fc82ab53e0051d38867b2d" alt=""></span><b>16 sur 29</b><span class="p07-bas"><i class="n">Sans taille</i><span class="p07-pt o"></span></span></button><button class="p07-t " aria-label="Black-bass, rare, 2 pêches sur 29, taille minimale 40 cm, ouvert"><span class="rar r"><svg viewBox="0 0 16 16" fill="currentColor" aria-hidden="true"><path d="M8 1 15 8 8 15 1 8Z"/></svg><span>Rare</span></span><span class="p07-im"><img class="poisson" src="/_blob/822cd2aa2361109755135f4ca4af8f47" alt=""></span><b>2 sur 29</b><span class="p07-bas"><i class="">40 cm</i><span class="p07-pt o"></span></span></button><button class="p07-t " aria-label="Truite fario, légendaire, 0 pêches sur 29, fermé"><span class="rar l"><svg viewBox="0 0 16 16" fill="currentColor" aria-hidden="true"><path d="m8 1 2.1 4.4 4.9.6-3.6 3.4.9 4.8L8 11.9l-4.3 2.3.9-4.8L1 6l4.9-.6Z"/></svg><span>Légendaire</span></span><span class="p07-im"><img class="poisson" src="/_blob/9c9a3e6836050e27289055b62c3d60d5" alt=""></span><b>0 sur 29</b><span class="p07-bas f"><i>Fermé</i><span class="p07-pt f"></span></span></button></div></div>
+<div class="groupe" style="padding:14px 12px;margin-top:12px"><div class="p07-cond" style=""><div class="p07-c"><svg viewBox="0 0 24 24" aria-hidden="true" style="width:22px;height:22px;flex:none;"><path fill="none" stroke="currentColor" stroke-width="2" stroke-linecap="round" stroke-linejoin="round" d="M12 3s6 6.5 6 11a6 6 0 0 1-12 0c0-4.5 6-11 6-11Z"/></svg><div><b>14 °C</b><span>Eau</span></div></div><div class="p07-c"><svg viewBox="0 0 24 24" aria-hidden="true" style="width:22px;height:22px;flex:none;"><path fill="none" stroke="currentColor" stroke-width="2" stroke-linecap="round" d="M2 9c2.5-2 5-2 7.5 0s5 2 7.5 0 3.5-1.5 5 0M2 15c2.5-2 5-2 7.5 0s5 2 7.5 0 3.5-1.5 5 0"/></svg><div><b>1,42 m</b><span>Marne · stable</span></div></div><div class="p07-c"><svg viewBox="0 0 24 24" aria-hidden="true" style="width:22px;height:22px;flex:none;"><path fill="none" stroke="currentColor" stroke-width="2" stroke-linejoin="round" d="M7 18h10.5a4 4 0 0 0 .4-8A6 6 0 0 0 6.3 11 3.5 3.5 0 0 0 7 18Z"/></svg><div><b>16°</b><span>Nuageux</span><span style="font-size:11px">Apple Météo</span></div></div></div></div>
+<div class="groupe" style="margin-top:12px"><div class="ligne" style="min-height:64px"><div style=""><div class="t-legende" style="margin-bottom:5px">À essayer aujourd&#39;hui</div><div class="p07-conseil"><span class="e"><img class="poisson" src="/_blob/325cfac7b539aef705c1b3f944fa8bcf" alt="Brochet"></span><span class="e"><svg viewBox="0 0 24 24" aria-hidden="true" style="width:20px;height:20px;flex:none;"><g fill="none" stroke="currentColor" stroke-width="2" stroke-linecap="round" stroke-linejoin="round"><path d="M3 12c3-5 9-5 13 0-4 5-10 5-13 0Z"/><path d="M16 12l5-3.5v7Z"/><circle cx="7.5" cy="11" r=".6" fill="currentColor"/></g></svg>Leurre souple</span><span class="e"><svg viewBox="0 0 24 24" aria-hidden="true" style="width:18px;height:18px;flex:none;"><g fill="none" stroke="currentColor" stroke-width="2" stroke-linecap="round"><circle cx="12" cy="12" r="9"/><path d="M12 7v5l3 2"/></g></svg>17 h à 19 h</span></div></div></div><div class="ligne" style="min-height:48px"><span class="texte" style="display:flex;align-items:center;gap:10px;color:var(--marine);white-space:nowrap"><svg viewBox="0 0 24 24" aria-hidden="true" style="width:20px;height:20px;flex:none;"><g fill="none" stroke="currentColor" stroke-width="2" stroke-linecap="round" stroke-linejoin="round"><path d="M6 3h8l4 4v14H6Z"/><path d="M14 3v4h4M9 12h6M9 16h6"/></g></svg>Règles et sources</span><span class="valeur" style="font-size:13px;white-space:nowrap">3 carnassiers par jour</span><svg class="chevron" viewBox="0 0 8 14" aria-hidden="true"><path fill="none" stroke="currentColor" stroke-width="2" stroke-linecap="round" stroke-linejoin="round" d="m1.5 1.5 5 5.5-5 5.5"/></svg></div></div>
+</div>
+<div style="position:absolute;left:16px;right:16px;bottom:30px"><button class="btn pri"><svg viewBox="0 0 24 24" aria-hidden="true" style="width:20px;height:20px;flex:none;"><path fill="currentColor" d="M7 4.5v15a1 1 0 0 0 1.5.86l12.5-7.5a1 1 0 0 0 0-1.72L8.5 3.64A1 1 0 0 0 7 4.5Z"/></svg>Commencer une session</button><button class="lien" style="height:40px">Choisir un autre spot</button></div>
 </div>
 </x-dc>
 <script type="text/x-dc" data-dc-script data-props='{"$preview":{"width":390,"height":844}}'>

diff --git a/docs/design/maquettes/P10-autre-spot-C.dc.html b/docs/design/maquettes/P10-autre-spot-C.dc.html
@@ -17,10 +17,10 @@ body{margin:0}
 </helmet>
 <div class="ecran blanc">
 <div class="haut" style="display:flex;justify-content:space-between;align-items:center"><span class="t-detail" style="color:var(--encre)">Choisir un autre spot</span><button class="rond" aria-label="Fermer" style="background:var(--tuile);color:var(--marine)"><svg viewBox="0 0 24 24" aria-hidden="true" ><path fill="none" stroke="currentColor" stroke-width="2.4" stroke-linecap="round" d="M6 6l12 12M18 6 6 18"/></svg></button></div>
-<div style="position:absolute;left:55px;top:150px;width:280px;height:280px;border-radius:50%;overflow:hidden;box-shadow:0 0 0 1px var(--filet)"><img style="position:absolute;left:-60px;top:-250px;width:393px;height:852px" src="/_blob/358f1ded92a9e441995d46a2c2f81624" alt="Carte de la Marne"><div style="position:absolute;left:62px;top:80px;width:140px;height:140px;border-radius:50%;border:2.5px dashed var(--encre);background:rgba(255,255,255,.35)"></div></div>
-<span class="verre" style="position:absolute;left:171px;top:372px;width:48px;height:48px;border-radius:24px;display:grid;place-items:center;color:var(--marine)"><svg viewBox="0 0 24 24" aria-hidden="true" style="width:22px;height:22px;flex:none;"><path fill="currentColor" d="M17 10V8A5 5 0 0 0 7 8v2a2 2 0 0 0-2 2v8a2 2 0 0 0 2 2h10a2 2 0 0 0 2-2v-8a2 2 0 0 0-2-2Zm-8-2a3 3 0 0 1 6 0v2H9Z"/></svg></span>
-<div style="position:absolute;left:32px;right:32px;top:470px;display:flex;flex-direction:column;align-items:center;gap:10px;text-align:center"><h2 class="t-grand" style="font-size:28px">Un 2e spot, c’est Pro</h2><div class="t-detail">Ton spot gratuit est déjà pris. Pro ajoute les tronçons entre deux confluences.</div></div>
-<div style="position:absolute;left:16px;right:16px;bottom:34px"><button class="btn pri" style=""><svg viewBox="0 0 24 24" aria-hidden="true" style="width:20px;height:20px;flex:none;"><path fill="currentColor" d="M17 10V8A5 5 0 0 0 7 8v2a2 2 0 0 0-2 2v8a2 2 0 0 0 2 2h10a2 2 0 0 0 2-2v-8a2 2 0 0 0-2-2Zm-8-2a3 3 0 0 1 6 0v2H9Z"/></svg>Découvrir Pro</button></div>
+<div style="position:absolute;left:55px;top:150px;width:280px;height:280px;border-radius:50%;overflow:hidden;box-shadow:0 0 0 1px var(--filet)"><img style="position:absolute;left:-60px;top:-250px;width:393px;height:852px" src="/_blob/358f1ded92a9e441995d46a2c2f81624" alt="Carte de la Marne"><div style="position:absolute;left:92px;top:110px;width:80px;height:80px;border-radius:50%;border:2.5px solid var(--marine);background:rgba(255,255,255,.35)"></div><div style="position:absolute;left:112px;top:0px;width:56px;height:56px;border-radius:50%;border:2.5px dashed var(--marine);background:rgba(255,255,255,.35)"></div><div style="position:absolute;left:170px;top:206px;width:56px;height:56px;border-radius:50%;border:2.5px dashed var(--marine);background:rgba(255,255,255,.35)"></div><div style="position:absolute;left:36px;top:196px;width:56px;height:56px;border-radius:50%;border:2.5px dashed var(--marine);background:rgba(255,255,255,.35)"></div></div>
+<span class="t-legende" style="position:absolute;left:152px;top:285px;padding:4px 8px;font-size:12px;border-radius:16px;background:var(--marine);color:#fff">Ton spot</span>
+<div style="position:absolute;left:32px;right:32px;top:462px;display:flex;flex-direction:column;align-items:center;gap:10px;text-align:center"><h2 class="t-grand" style="font-size:28px">Spots illimités</h2><div class="t-detail">Pose un cercle où tu veux : tronçons entiers de rivière et lacs.</div><div class="t-legende" style="color:var(--encre-douce);display:flex;align-items:center;gap:6px"><svg viewBox="0 0 24 24" aria-hidden="true" style="width:16px;height:16px;flex:none;color:var(--ouvert)"><path fill="currentColor" d="M12 2a10 10 0 1 0 0 20 10 10 0 0 0 0-20Zm-1.3 14.2-4-4 1.4-1.4 2.6 2.6 5.6-5.6 1.4 1.4Z"/></svg>Ton spot gratuit reste à toi, pour toujours</div></div>
+<div style="position:absolute;left:16px;right:16px;bottom:30px;display:flex;flex-direction:column;align-items:center;gap:6px"><button class="btn pri" style="width:100%">Découvrir Pro</button><button class="lien" style="min-height:44px">Plus tard</button></div>
 </div>
 </x-dc>
 <script type="text/x-dc" data-dc-script data-props='{"$preview":{"width":390,"height":844}}'>

diff --git a/docs/design/ton-mwm.md b/docs/design/ton-mwm.md
@@ -1,0 +1,15 @@
+# Ton MWM (relevé pour P10-C)
+
+Sources lues (lecture seule, MWM get_public_store_listing, FR) : Edjing Mix (id 493226494, v9.3.2) et Piano: Apprendre le Clavier (id 1360309966, v3.62.00). Ce sont des fiches App Store, pas les écrans de paywall (non accessibles) : le ton est celui du texte MWM, à confirmer sur le paywall du kit. Pas d'écran d'abonnement MWM dans kickoff/ ni dans docs/app-store.md (qui ne donne que les prix et l'essai 1 semaine).
+
+Formules relevées :
+1. « Voici pourquoi vous allez l'adorer » / « Pourquoi vous allez adorer » : bénéfice d'abord.
+2. « ACCÈS ILLIMITÉ À VOS MORCEAUX » : « illimité » est un argument positif (Edjing) -> « Spots illimités ».
+3. « Libérez votre créativité où que vous soyez, à tout moment » : liberté, pas de limite.
+4. « Aucune expérience n'est requise » : on rassure.
+5. « Progressez à votre rythme, où et quand vous le voulez » : choix laissé à l'utilisateur.
+6. « Arrêtez de rêver, commencez à mixer » / « Téléchargez l'application et commencez à jouer dès aujourd'hui ! » : invitation à agir, verbes à l'impératif doux.
+7. « Découvrez… » (« Découvrez une nouvelle façon… ») -> bouton « Découvrir Pro ».
+Ton : positif, bénéfice d'abord, vouvoiement chez MWM (nous : tutoiement, règle du kit), aucun interdit, aucune peur, aucun cadenas.
+
+Retenu dans P10-C : « Spots illimités » / « Pose un cercle où tu veux : tronçons entiers de rivière et lacs. » / « Ton spot gratuit reste à toi, pour toujours » / « Découvrir Pro » / « Plus tard ».
